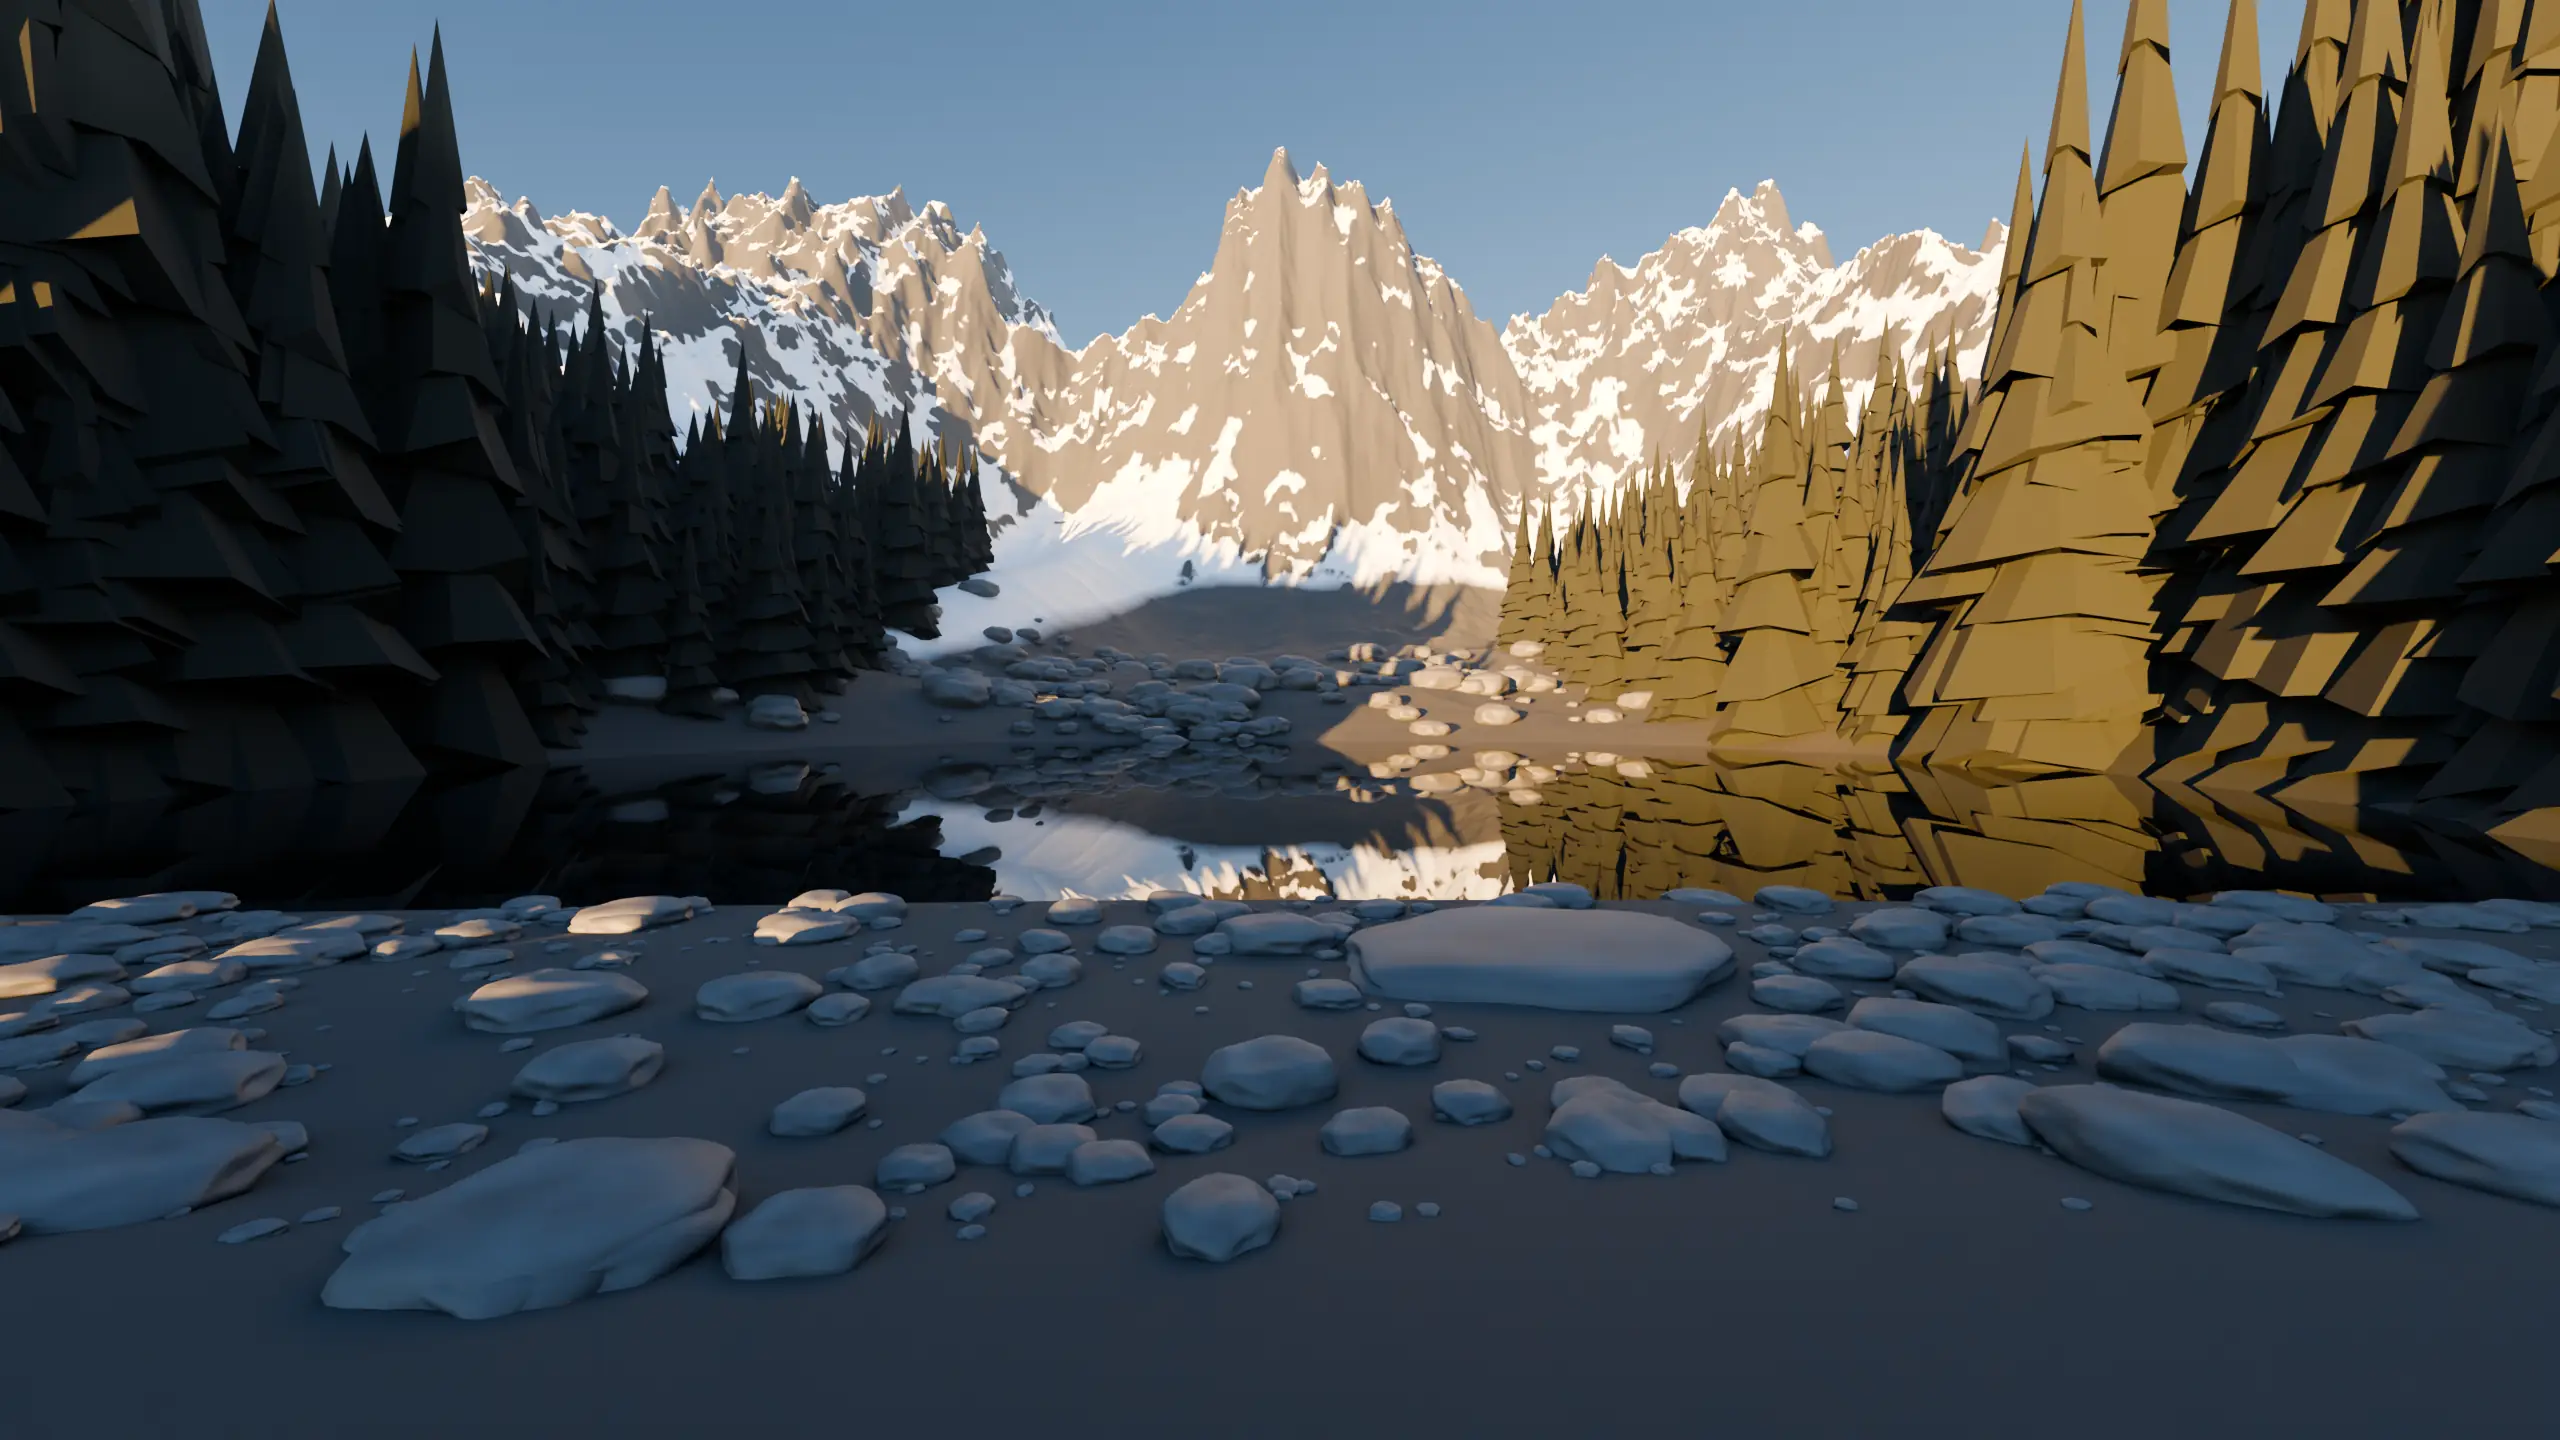
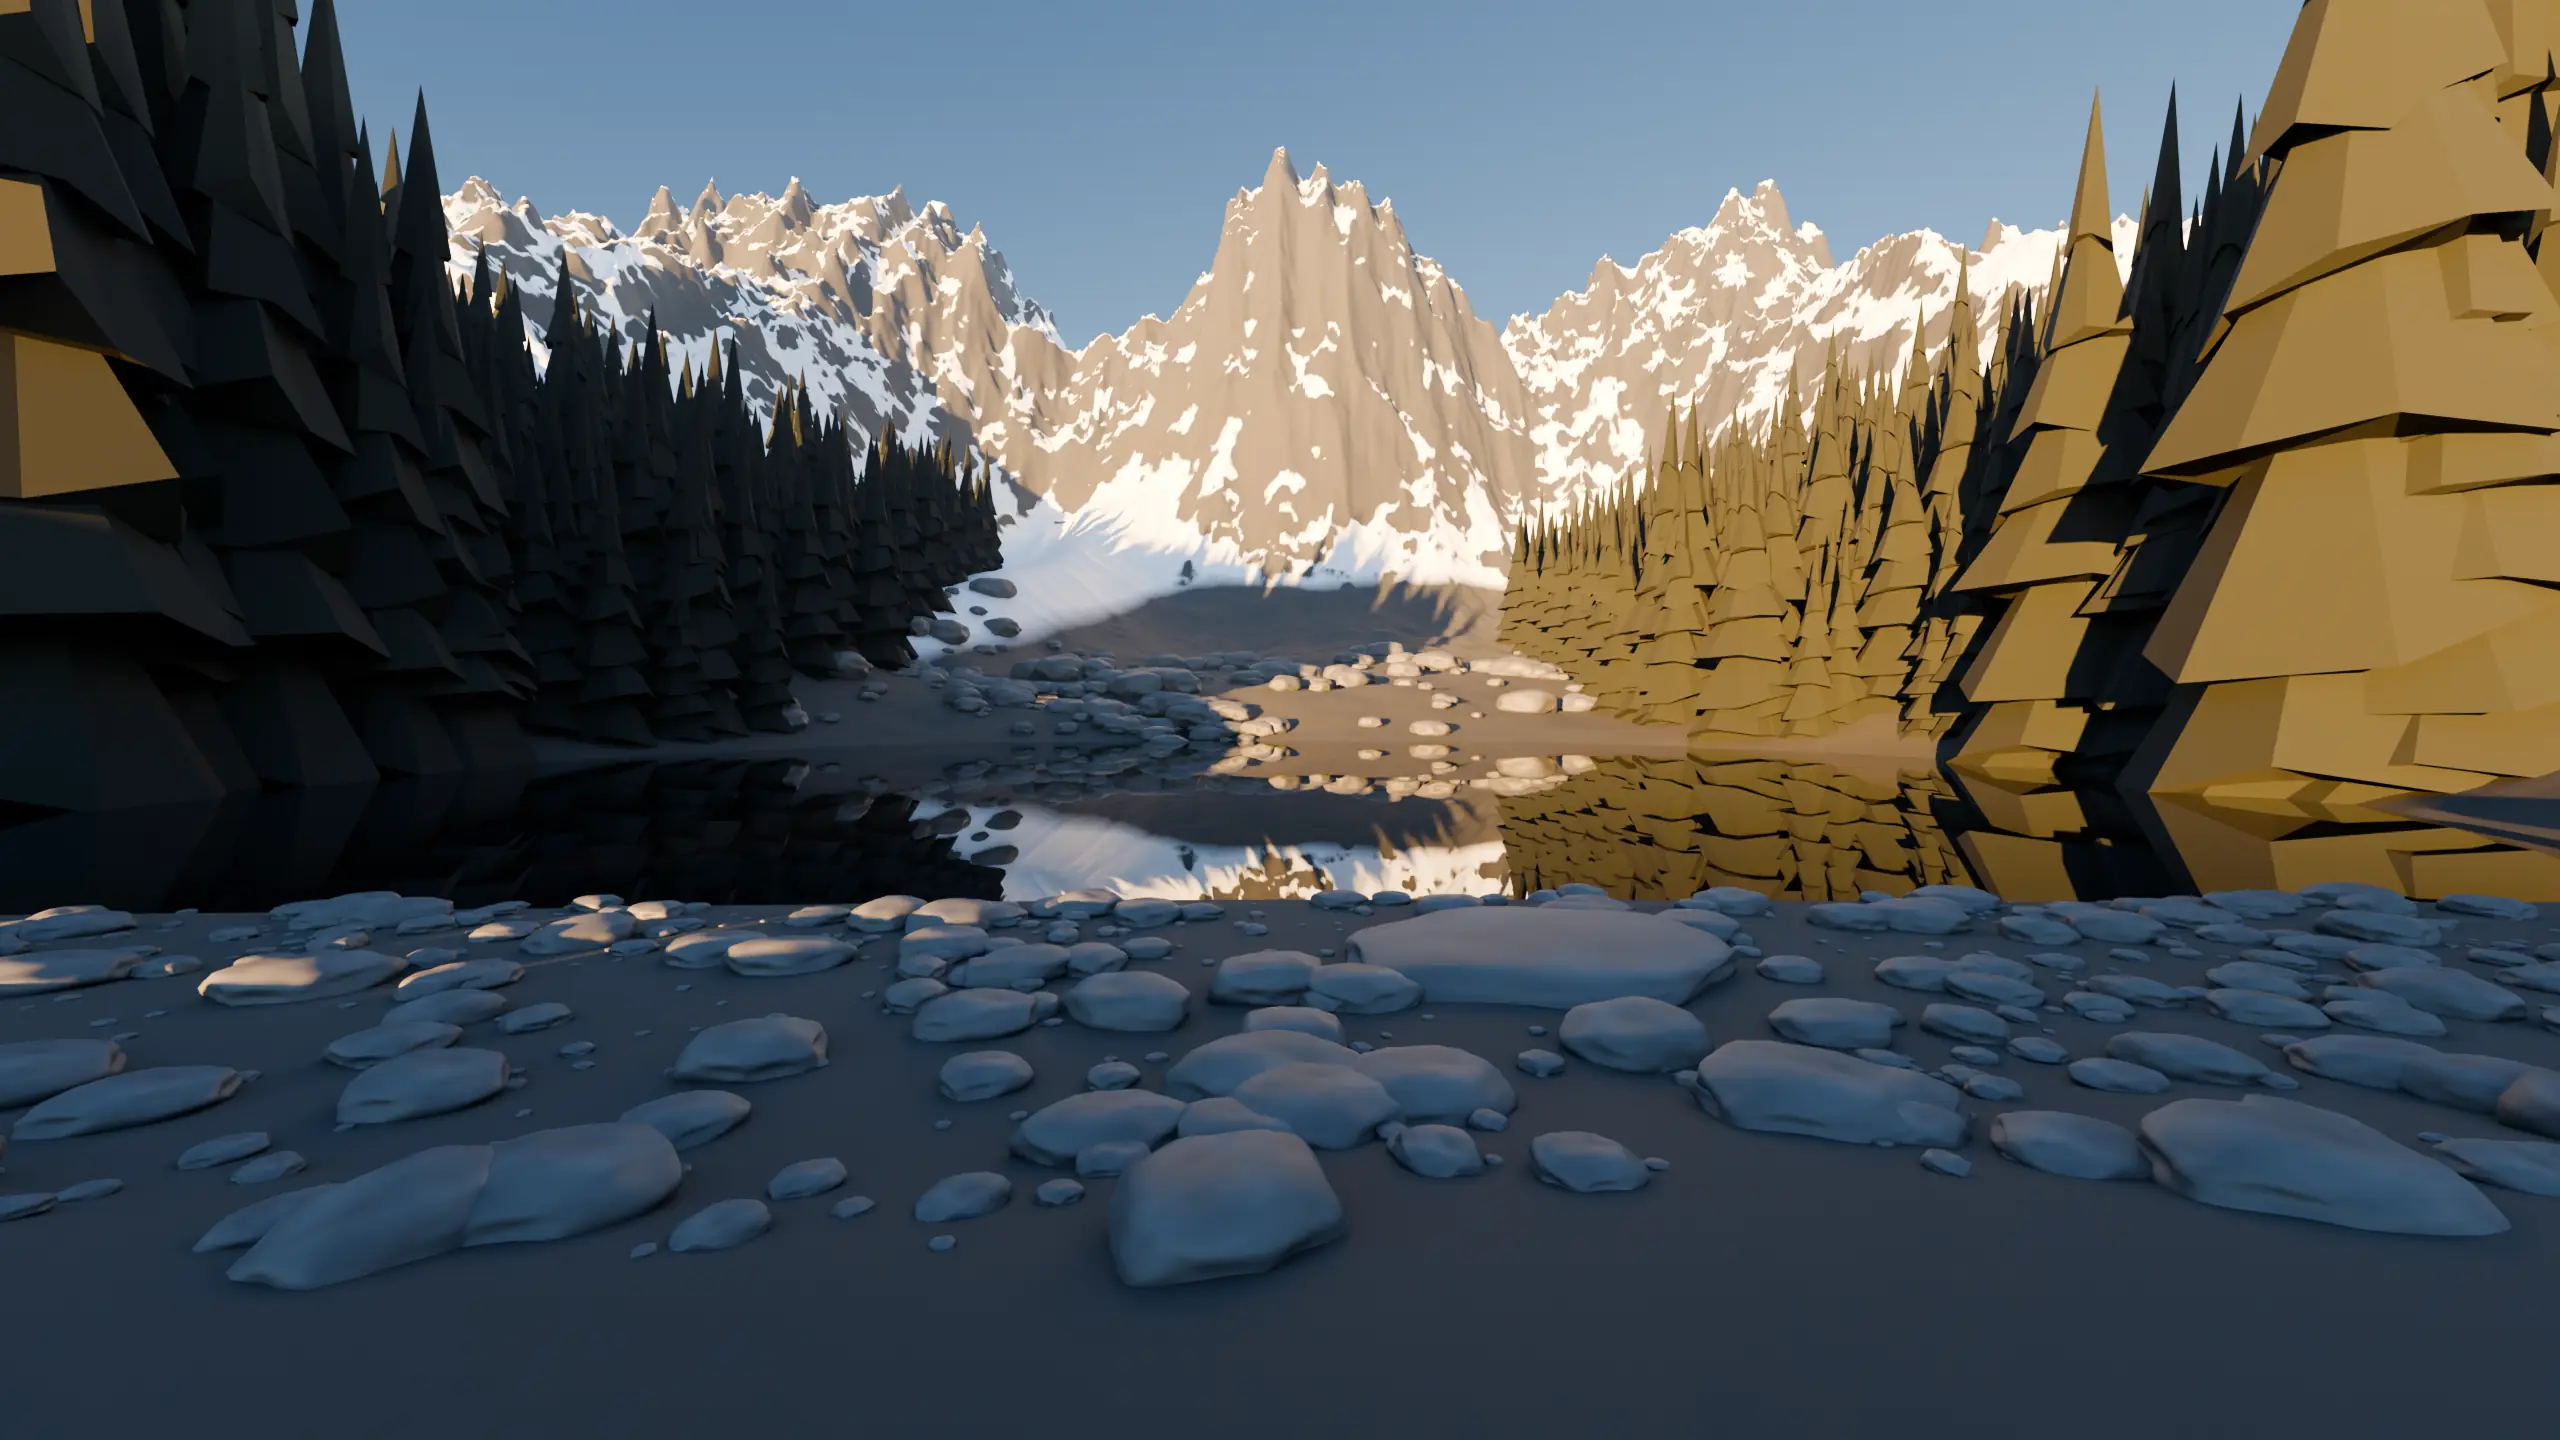
Version 2: final master plate; headline visible from first paint (mobile LCP 0.8 s)
Claude-Session: https://claude.ai/code/session_01EFY811Hm5snojWt16PTAxp

diff --git a/src/main.ts b/src/main.ts
@@ -30,7 +30,8 @@ async function boot(): Promise<void> {
 
   // Quiet entrance: the landscape is already there (poster), the words arrive.
   if (!reducedMotion) {
-    gsap.from('.dx-head > *', { opacity: 0, y: 14, duration: 1.4, ease: 'power2.out', stagger: 0.12, delay: 0.2 });
+    // The headline is visible from the first frame (it is the largest paint); the rest follows.
+    gsap.from('.dx-head > :not(.dx-title)', { opacity: 0, y: 14, duration: 1.4, ease: 'power2.out', stagger: 0.12, delay: 0.3 });
     gsap.from('.dx-markers, .dx-rail, .dx-index, .dx-soundwrap', { opacity: 0, duration: 1.6, delay: 0.9, clearProps: 'opacity' });
   }
   initScrollReveals(reducedMotion);
